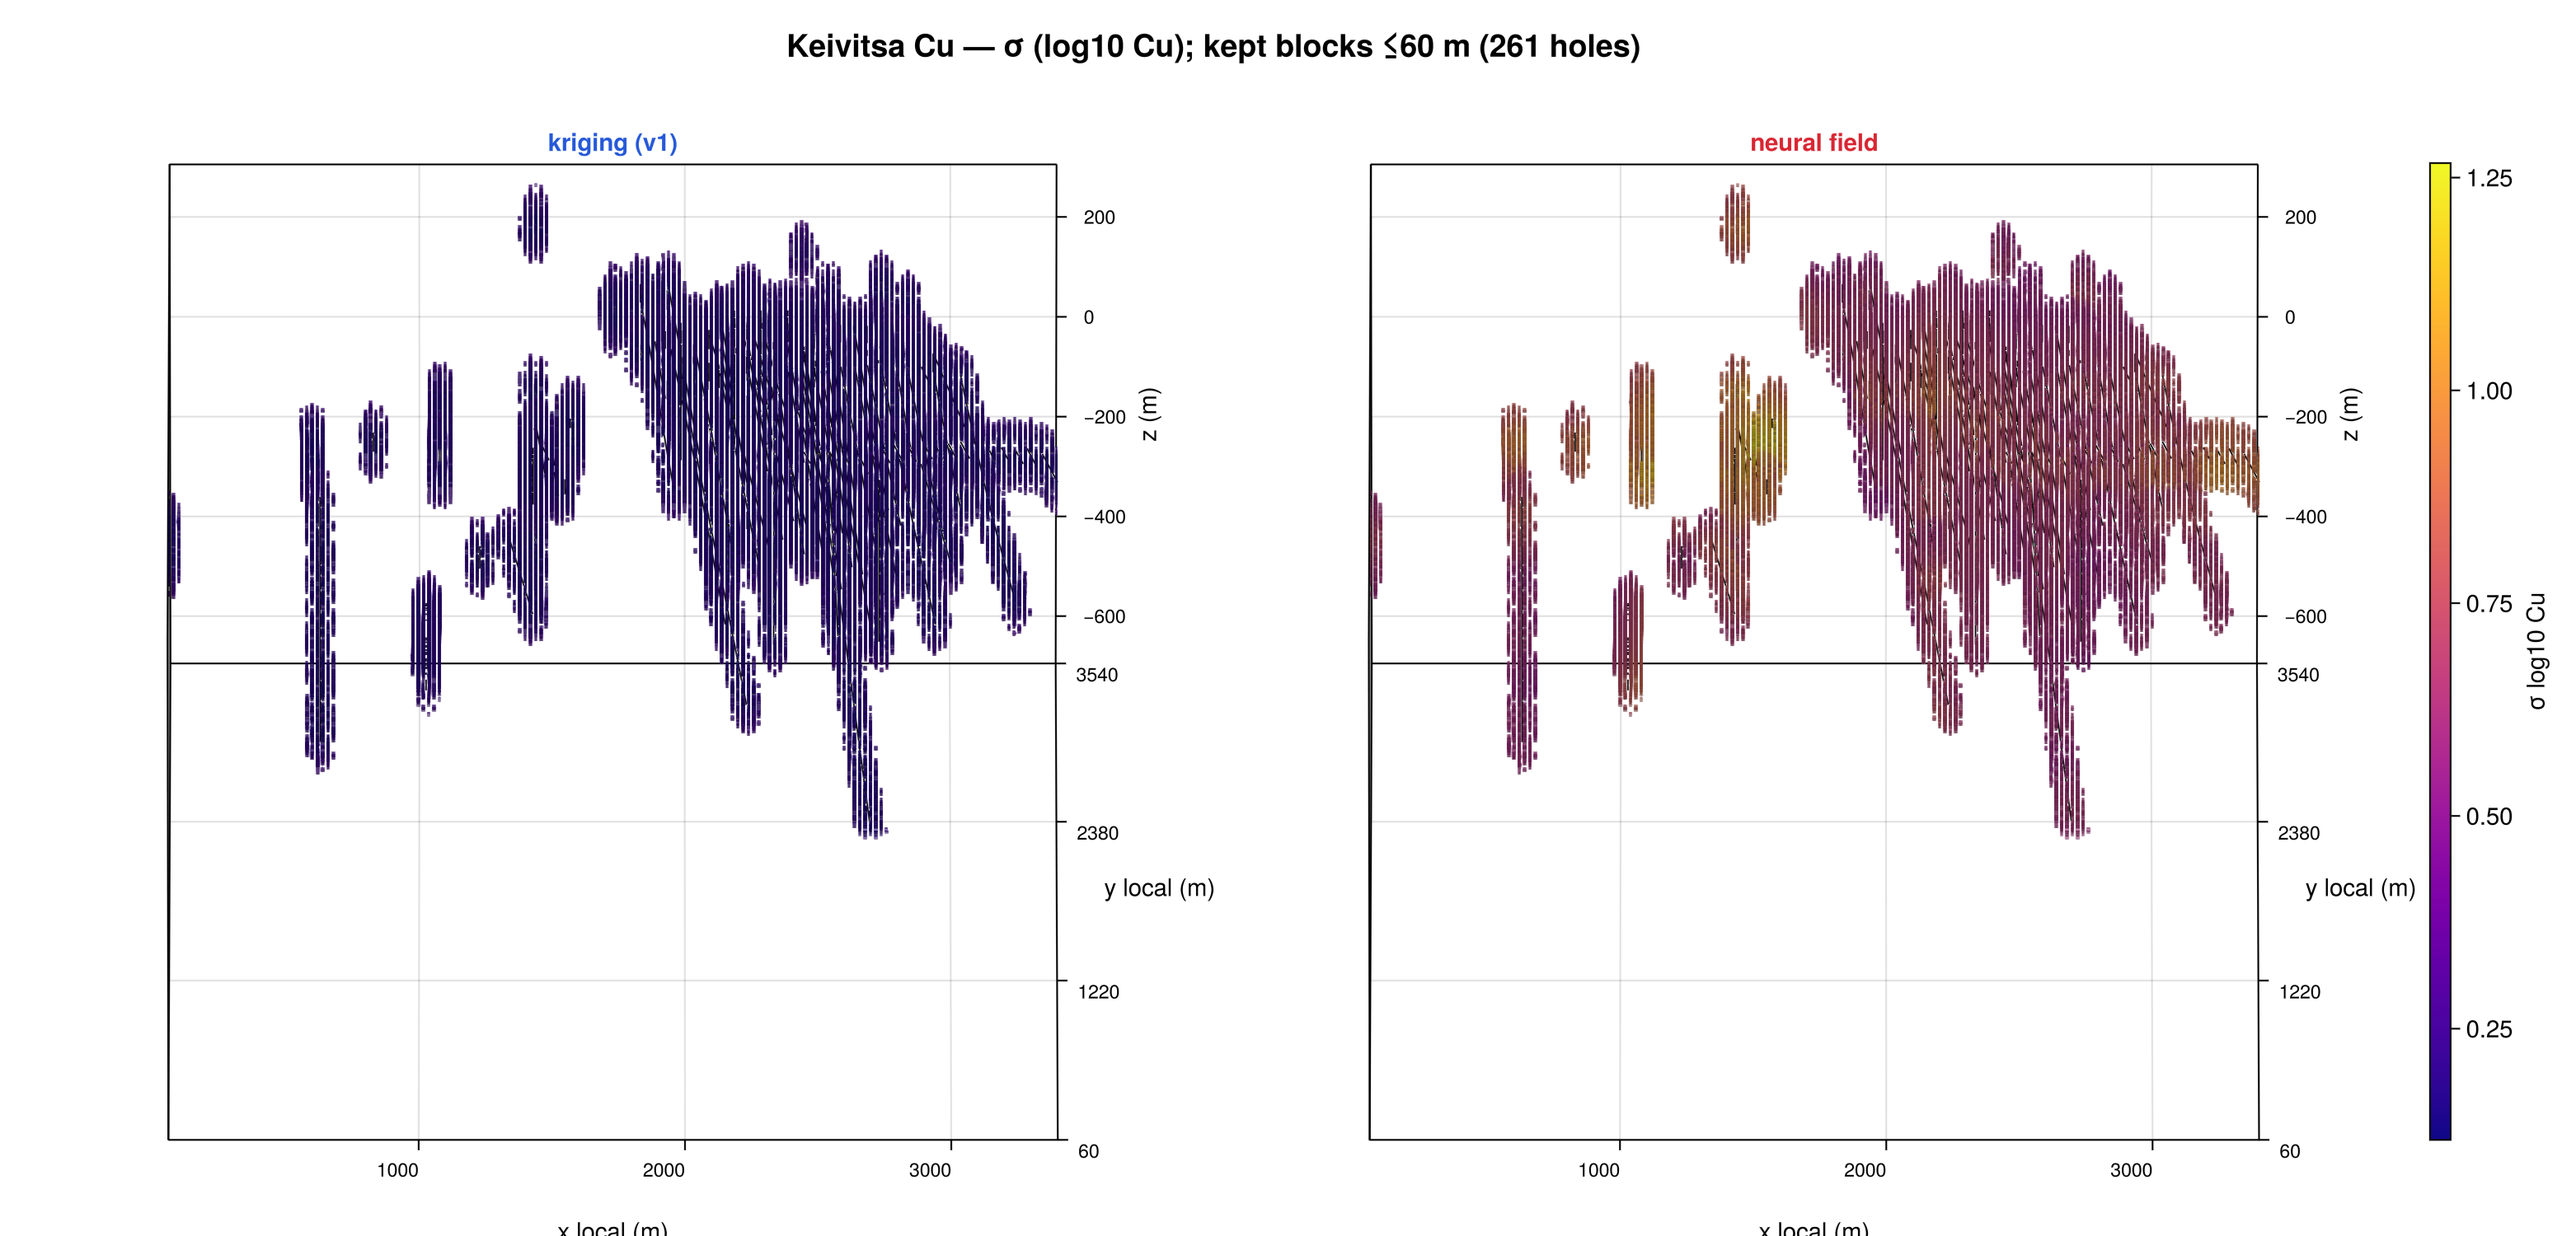
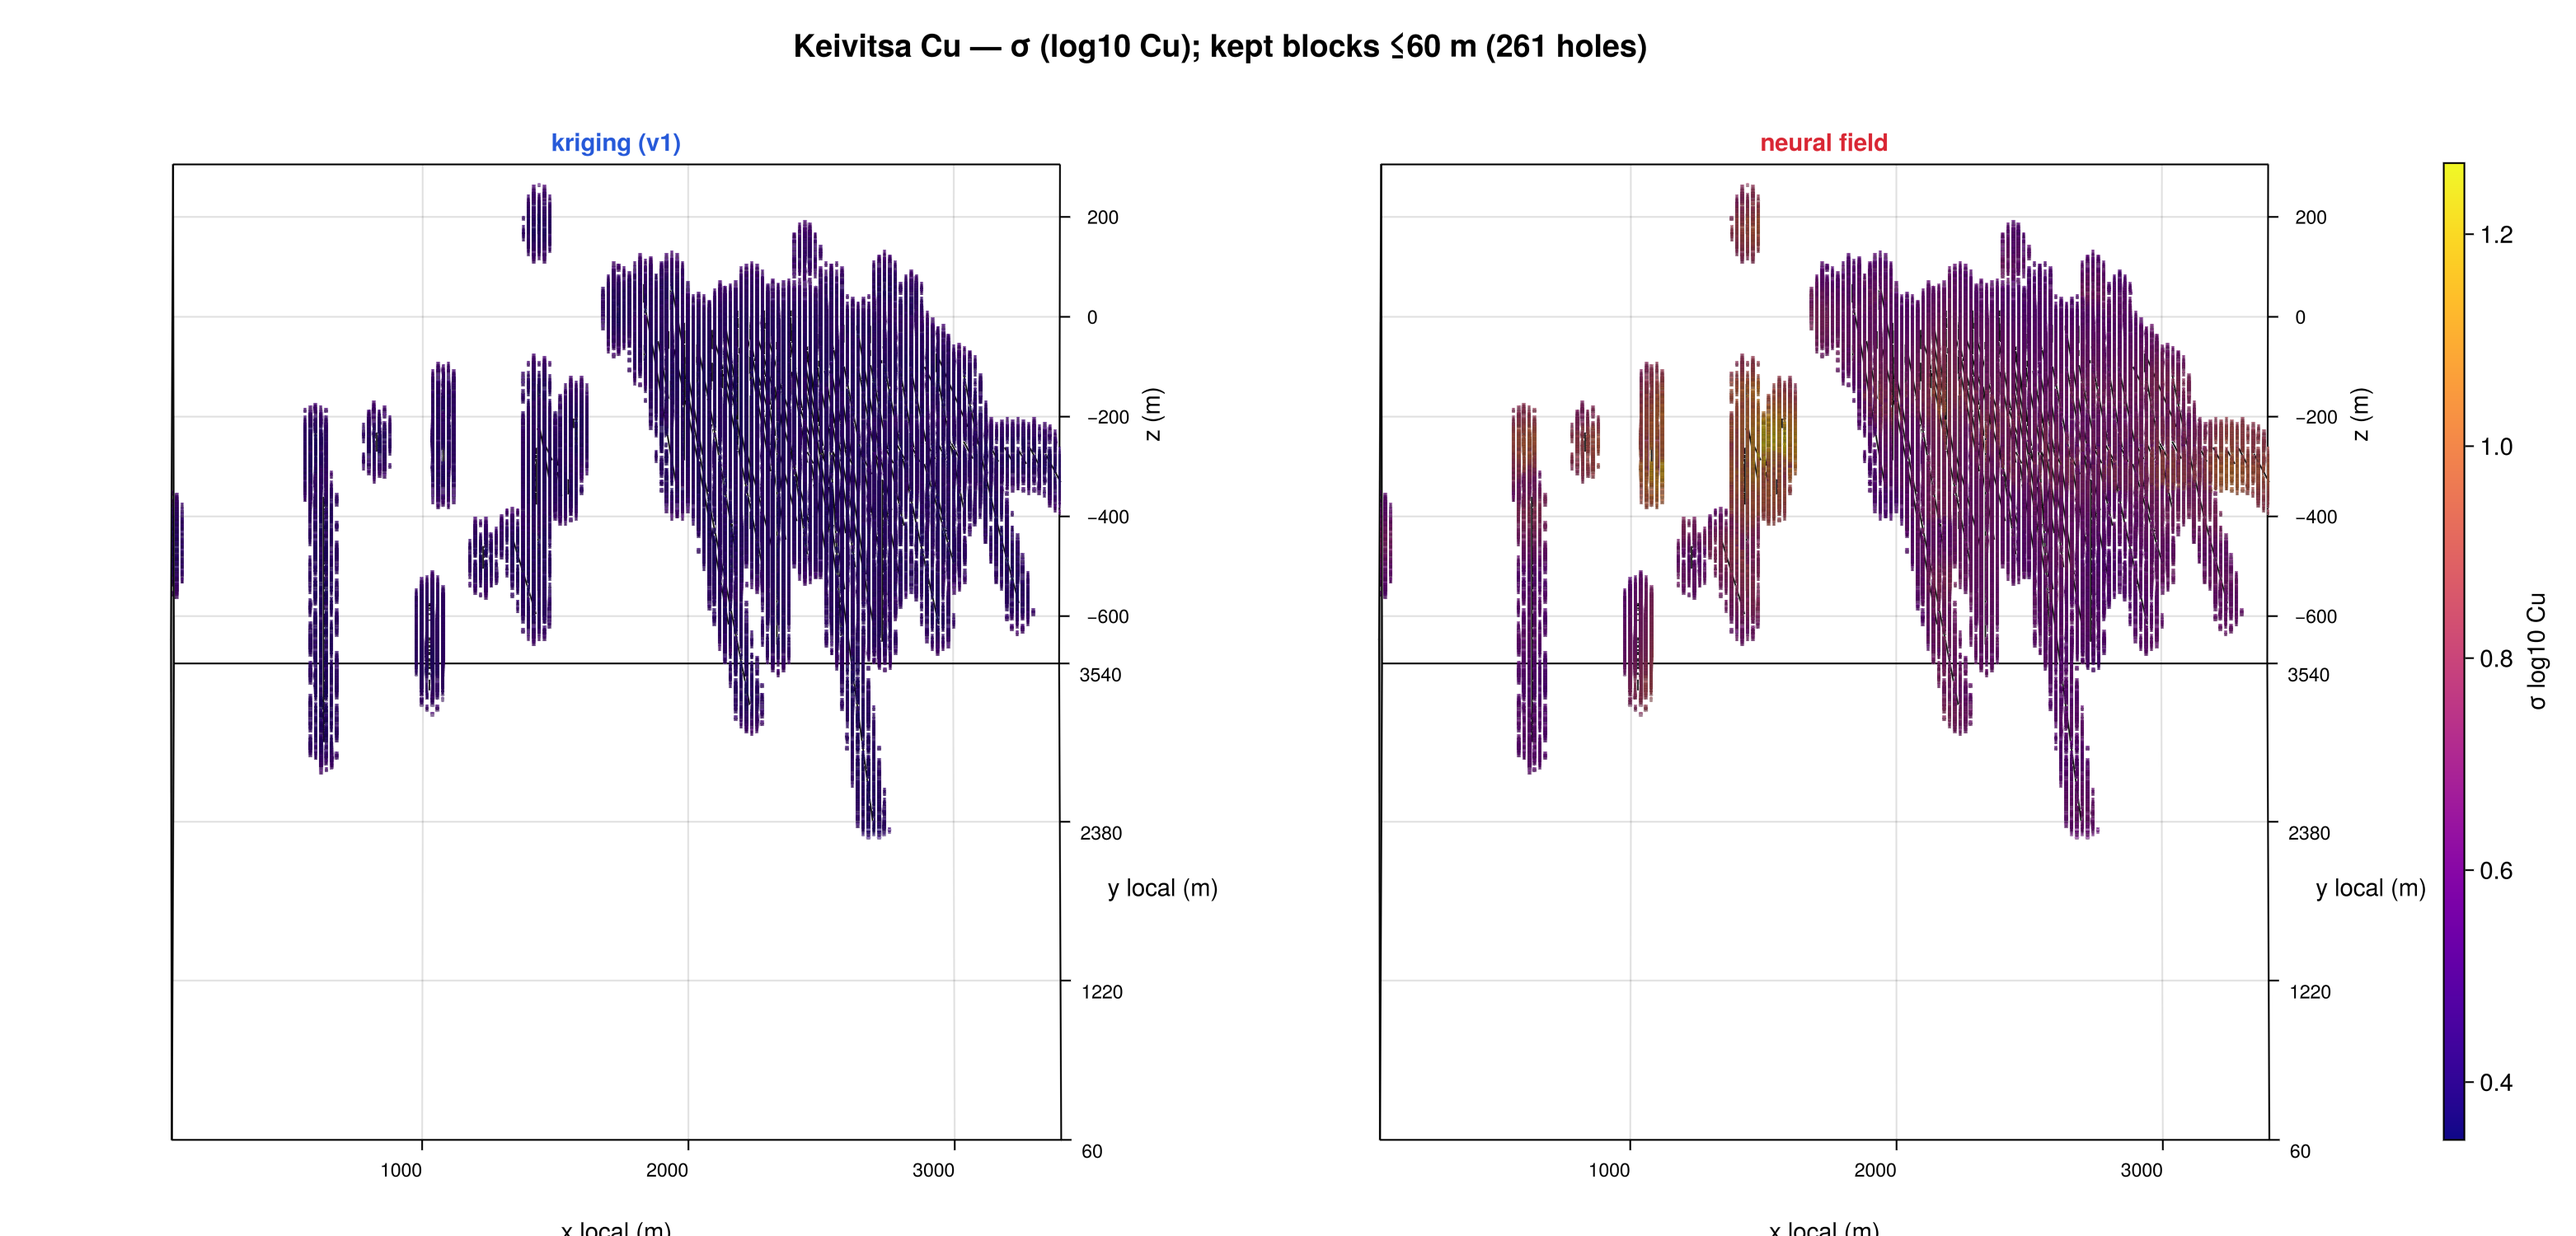
Fix kriging σ (variance vs std) and refresh density README figures.
GeoStats Normal second param is variance; take sqrt when needed, regenerate
coverage/calibration/σ figures, and document corrected Keivitsa Cu/density results.

diff --git a/README.md b/README.md
@@ -1,22 +1,27 @@
 # SmartPrior
 
-A Julia / Lux.jl neural field that predicts a rock property, and its uncertainty, at any 3D point from sparse drillholes. The primary test is Keivitsa Cu; Cloncurry is the sparse-spacing reference.
+A Julia / Lux.jl neural field that predicts a rock property, and its uncertainty, at any 3D point from sparse drillholes. The primary test site is Keivitsa (GTK, Finland): copper is complete, density is complete. Cloncurry is the sparse-spacing reference.
 
-![Keivitsa Cu uncertainty: kriging (v1) is tight almost everywhere; the neural field is larger and structured](docs/figures/3d_sigma.png)
+![Keivitsa Cu uncertainty: kriging (v1) is nearly flat; the neural field is larger and structured](docs/figures/3d_sigma.png)
 
-*Predicted σ for log10 Cu. Kriging (v1) stays near 0.15–0.2; the neural field is larger near isolated holes and the surface.*
+*Predicted σ for log10 Cu. Kriging (v1) stays near 0.4–0.45; the neural field is 0.5–1.2, larger near isolated holes, the edges of the drilled volume, and the surface.*
+
+> **Correction (2026-09-25).** GeoStats.jl, in the version pinned here, returns ordinary-kriging predictions as `Normal(μ, σ²)`: the second parameter is the kriging *variance*. Earlier runs read it as the standard deviation, so every kriging σ and kriging coverage reported before this date is wrong. Kriging means, RMSE and skill are unaffected, and so are all neural-field results. `kriging_predict` now checks the behaviour on a known case and takes the square root when needed (`examples/check_kriging_sigma.jl`). The corrected numbers are below. The coverage, calibration, 3D and section figures in `docs/figures/` were regenerated with the corrected kriging σ.
 
 ## Key results
 
-On Keivitsa Cu (261 holes, 10-fold hole-grouped CV) the neural field is non-inferior to kriging (v1): skill 0.151 vs 0.106; the pooled difference is not significant.
+Skill is `1 − RMSE / RMSE_mean`, pooled over held-out samples, with 10-fold hole-grouped cross-validation. Coverage is the share of held-out samples inside the 90 % interval (nominal 0.90).
 
-Its uncertainty is calibrated: 90 % intervals cover 0.74–0.92 per fold vs 0.43–0.54 for kriging (v1).
+| Site / target | Holes | Samples | Kriging (v1) skill | Neural field skill | Kriging (v1) coverage | Neural field coverage |
+|---|---:|---:|---:|---:|---:|---:|
+| Keivitsa Cu (log10 ppm) | 261 | 15,859 | 0.106 | 0.151 (`nn_xyz`) | 0.78 | 0.87 |
+| Keivitsa density (kg/m³) | 263 | 30,908 | 0.058 | 0.059 (`nn_xyz`), 0.065 (`nn_cov`) | 0.77 | 0.89 (`nn_xyz`), 0.90 (`nn_cov`) |
 
-At Cloncurry's sparse spacing no method beats the mean.
+**Copper.** The neural field is non-inferior to kriging (v1): all three pre-registered conditions pass. The pooled difference is not significant. Both methods under-cover; kriging (v1) is more overconfident (0.78 vs 0.87). The earlier claim of 0.48 kriging coverage came from the variance bug.
 
-![Skill with 95 % confidence intervals](docs/figures/skill_ci.png)
+**Density.** Coordinates carry little information about density: RMSE falls from 146.1 to 137.5 kg/m³ against the training mean. The pre-registered rule is not met (`useful = 0`): skill is below 0.10, although its 95 % interval (0.003 … 0.114 for `nn_xyz`) sits above 0. Per hole, the network beats kriging (v1) on 153 of 263 holes, mean paired skill difference +0.055 (0.016 … 0.093). The network's intervals are well calibrated (0.89–0.90); kriging (v1) is overconfident (0.77).
 
-*Pooled skill on all 15,859 Keivitsa Cu samples. The neural-field interval sits above 0 and overlaps kriging (v1).*
+**Cloncurry.** At 100–370 m hole spacing with 4–11 holes per site, no method beats the mean.
 
 ## Pipeline
 
@@ -27,11 +32,12 @@ flowchart LR
   adapter --> samples["SampleTable"]
   samples --> cov["covariates"]
   cov --> cv["hole-grouped CV"]
+  cv --> bm["block model"]
 ```
 
 ![Network: Fourier xyz, MLP, μ and σ](docs/figures/network_architecture.png)
 
-*Five-member ensemble. Coordinates are Fourier-encoded; other covariates are appended. The head emits μ and σ.*
+*Five-member ensemble. Coordinates are Fourier-encoded (16 bands); other covariates are appended. A 3 × 64 GELU MLP emits μ and softplus σ. The cross-validation uses `build_mlp` in `examples/feasibility_loho.jl`, not `src/PriorNet.jl`.*
 
 ## Quick start
 
@@ -41,8 +47,16 @@ Set `KEIVITSA_ROOT` to the unpacked GTK `source/gtk` tree. Data stay outside the
 julia --project=. -e 'using Pkg; Pkg.instantiate()'
 julia --project=. -e 'using Pkg; Pkg.test()'
 
-julia --project=. examples/diagnose_nn_keivitsa.jl
+# sanity checks, no GTK data needed (seconds)
+julia --project=. examples/check_kriging_sigma.jl
+julia --project=. examples/check_binned_variogram.jl
+
+# Keivitsa cross-validation; target = cu (default) | density | susceptibility
+export KEIVITSA_ROOT=/path/to/gtk
 julia --project=. examples/feasibility_keivitsa.jl
+SMARTPRIOR_TARGET=density julia --project=. examples/feasibility_keivitsa.jl
+
+julia --project=. examples/diagnose_nn_keivitsa.jl
 julia --project=. examples/keivitsa_run2_checks.jl
 julia --project=. examples/keivitsa_blockmodel.jl
 julia --project=. examples/figures_data.jl
@@ -51,7 +65,7 @@ julia --project=. examples/figures_results.jl
 julia --project=. examples/figures_3d.jl
 ```
 
-The feasibility script refuses a non-empty work directory and a leftover `.run.lock`, so two runs cannot share one output folder.
+Outputs go to `tmp_feasibility_keivitsa/` for Cu and `tmp_feasibility_keivitsa_<target>/` for other targets (all gitignored). The script refuses a non-empty work directory and a leftover `.run.lock`, so two runs cannot share one output folder. It logs a runtime estimate after the first fold; the density run took 3.2 h on a MacBook Air.
 
 ## Repository layout
 
@@ -65,17 +79,29 @@ The feasibility script refuses a non-empty work directory and a leftover `.run.l
 | `sites/*.toml` | site boxes, CRS, properties |
 | `examples/keivitsa_inspect.jl` | data checks |
 | `examples/diagnose_nn_keivitsa.jl` | synthetic stopping diagnosis |
-| `examples/feasibility_keivitsa.jl` | 10-fold Keivitsa Cu CV |
+| `examples/feasibility_keivitsa.jl` | 10-fold Keivitsa CV, target set by `SMARTPRIOR_TARGET` |
 | `examples/keivitsa_run2_checks.jl` | byte compare, coverage, variograms |
-| `examples/keivitsa_blockmodel.jl` | final block model |
+| `examples/keivitsa_blockmodel.jl` | final Cu block model |
 | `examples/figures_{data,training,results,3d}.jl` | report figures |
-| `examples/feasibility_loho.jl` | Cloncurry leave-one-hole-out |
+| `examples/feasibility_loho.jl` | Cloncurry leave-one-hole-out; shared kriging and network code |
 | `examples/feasibility_keivitsa_pilot.jl` | 30-hole pilot |
-| `docs/figures/` | figures cited below |
+| `examples/check_kriging_sigma.jl` | kriging σ is a standard deviation (known case) |
+| `examples/check_binned_variogram.jl` | streaming variogram bins equal stored-pair bins |
+| `examples/synthetic_exp1.jl` | synthetic-field experiment |
+| `examples/variogram_cloncurry.jl` | Cloncurry variograms |
+| `examples/kriging_cloncurry_petro.jl`, `examples/kriging_env/` | Cloncurry petrophysics kriging |
+| `examples/calibration_plot_cloncurry.jl` | Cloncurry calibration plot |
+| `examples/export_cloncurry_blockmodel.jl` | Cloncurry block-model export |
+| `docs/figures/` | figures cited in the reports |
 | `docs/2026-09_keivitsa_technical_report.md` | Keivitsa report |
 | `docs/2026-09_cloncurry_feasibility_report.md` | Cloncurry report |
 | `docs/keivitsa_data_notes.md` | GTK conventions, statistics only |
 
-Full write-up: [Keivitsa technical report](docs/2026-09_keivitsa_technical_report.md).
+Full write-up: [Keivitsa technical report](docs/2026-09_keivitsa_technical_report.md). The report carries the corrected kriging coverage and σ, and a density section.
 
-GTK data are never committed. Check the GTK licence terms before publishing figures derived from the data. The legacy scripts `examples/train_cloncurry_prior.jl` and `examples/holdout_cloncurry_prior.jl` fed held-out holes' own geochemistry into the network; do not cite those RMSE tables.
+## Notes
+
+- The kriging variogram step counts point pairs without storing them (memory O(bins) instead of O(n²)). The stored-pair version ran out of memory on Keivitsa density, about 250 million pairs per fold; the check script shows the bins are bit-identical.
+- Kriging (v1) pins the vertical range at the optimiser bound in most folds for both Cu and density. Kriging (v2) is the next baseline.
+- GTK data are never committed. Check the GTK licence terms before publishing figures derived from the data.
+- The legacy scripts `examples/train_cloncurry_prior.jl` and `examples/holdout_cloncurry_prior.jl` fed held-out holes' own geochemistry into the network; do not cite those RMSE tables.
